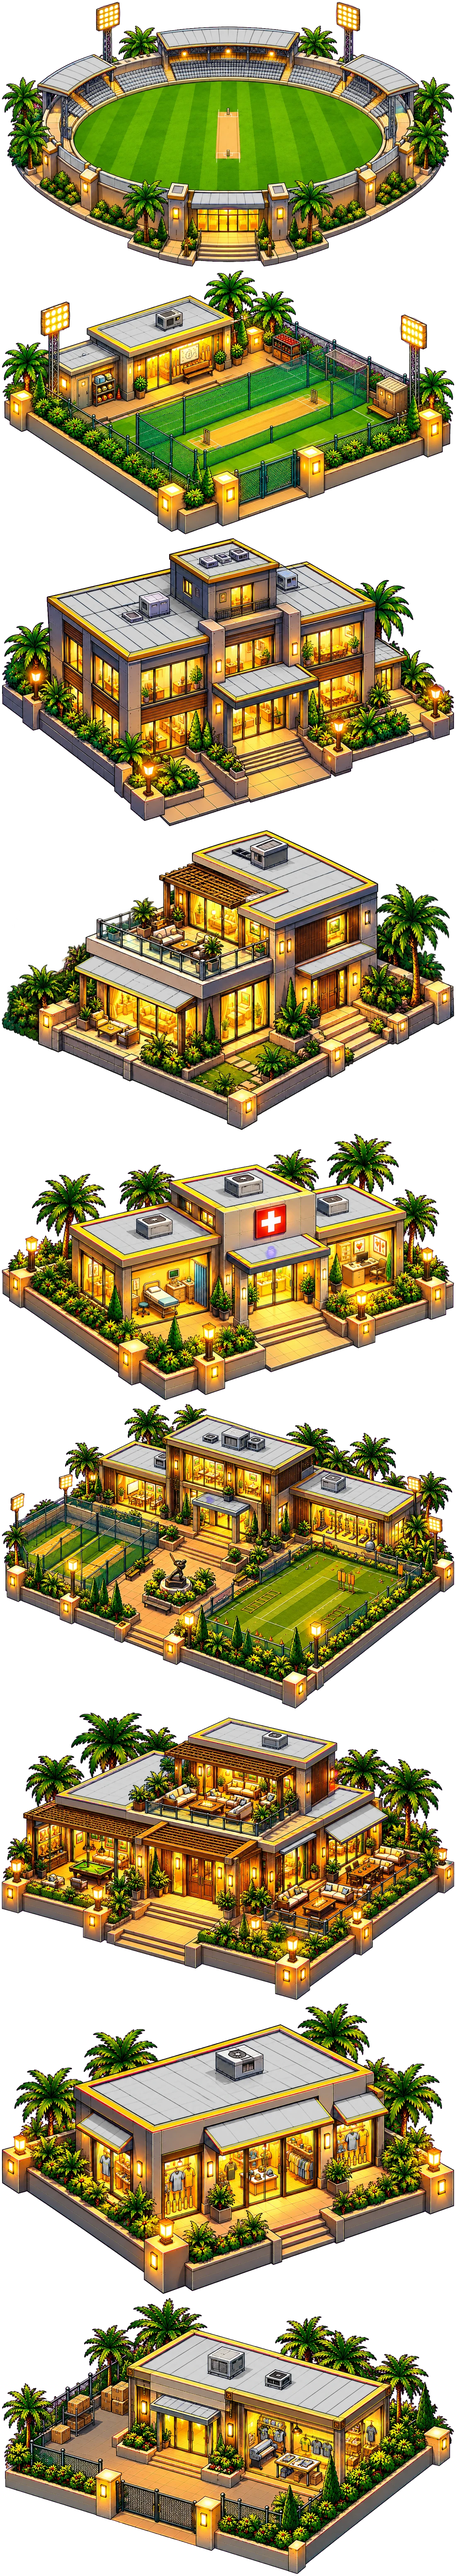
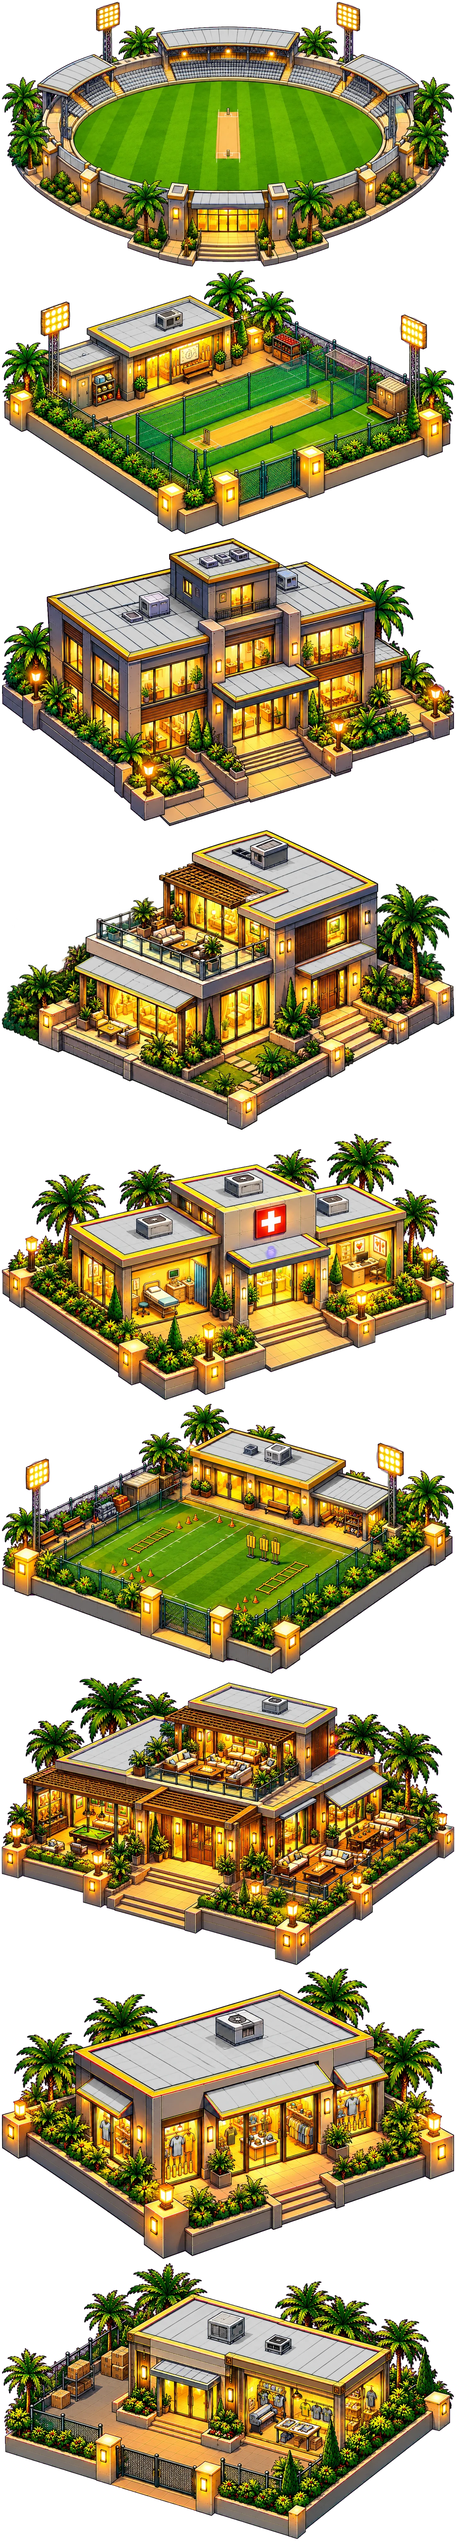
Club map: the level 1 youth academy; club shop level 2 and 3 and academy level 2 pictures kept for later
Claude-Session: https://claude.ai/code/session_01NK7tbrKg5PdA6fuyEUPXLd

diff --git a/js/clubmap.js b/js/clubmap.js
@@ -11,7 +11,7 @@ const SITES = {
   training: { x: 0.344, y: 0.165, w: 0.351 },
   apartment:{ x: 0.725, y: 0.211, w: 0.314 },
   office:   { x: 0.224, y: 0.310, w: 0.316 },
-  academy:  { x: 0.808, y: 0.356, w: 0.295 },
+  academy:  { x: 0.810, y: 0.364, w: 0.294 },
   medical:  { x: 0.234, y: 0.570, w: 0.320 },
   clubhouse:{ x: 0.767, y: 0.582, w: 0.309 },
   shop:     { x: 0.231, y: 0.719, w: 0.341 },
@@ -19,7 +19,7 @@ const SITES = {
 };
 const ORDER = Object.keys(SITES).sort((a, b) => SITES[a].y - SITES[b].y);   // far to near, the near ones painted over the far
 // where each building is in img/map/buildings.webp (and its tint in buildings-tint.webp): [row, height], all 1100 wide (tools/build_map.py)
-const ATLAS = {"stadium": [0, 647], "training": [647, 645], "office": [1292, 704], "apartment": [1996, 732], "medical": [2728, 651], "academy": [3379, 743], "clubhouse": [4122, 702], "shop": [4824, 709], "merch": [5533, 675]};
+const ATLAS = {"stadium": [0, 647], "training": [647, 645], "office": [1292, 704], "apartment": [1996, 732], "medical": [2728, 651], "academy": [3379, 659], "clubhouse": [4038, 702], "shop": [4740, 709], "merch": [5449, 675]};
 const AW = 1100;
 const rgbOf = h => [1, 3, 5].map(i => parseInt(h.slice(i, i + 2), 16));
 const load = src => new Promise((res, rej) => { const im = new Image(); im.onload = () => res(im); im.onerror = rej; im.src = src; });

diff --git a/tools/fit_map_sites.py b/tools/fit_map_sites.py
@@ -21,7 +21,7 @@ plots=[]
 for i,sl in enumerate(ndi.find_objects(lab),1):
     if (lab[sl]==i).sum()>40000:
         ys,xs=np.where(lab==i); plots.append(dict(cx=(xs.min()+xs.max())/2,cy=(ys.min()+ys.max())/2,x0=xs.min(),x1=xs.max(),y1=ys.max()))
-ATLAS={"stadium":[0,647],"training":[647,645],"office":[1292,704],"apartment":[1996,732],"medical":[2728,651],"academy":[3379,743],"clubhouse":[4122,702],"shop":[4824,709],"merch":[5533,675]}
+ATLAS={"stadium":[0,647],"training":[647,645],"office":[1292,704],"apartment":[1996,732],"medical":[2728,651],"academy":[3379,659],"clubhouse":[4038,702],"shop":[4740,709],"merch":[5449,675]}
 atlas=Image.open(R+'img/map/buildings.webp').convert('RGBA'); al=np.array(atlas)[...,3]
 def pick(fx,fy): return min(plots,key=lambda p:(p['cx']/W-fx)**2+(p['cy']/H-fy)**2)
 assign={'stadium':(.503,.444),'training':(.34,.195),'apartment':(.735,.245),'office':(.224,.334),'academy':(.812,.382),'medical':(.24,.584),'clubhouse':(.766,.594),'shop':(.239,.739),'merch':(.749,.757)}
